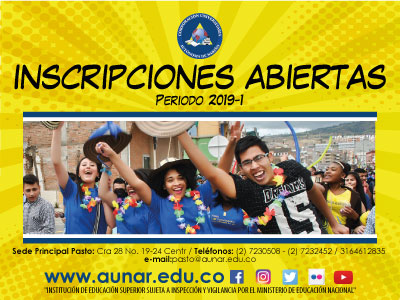
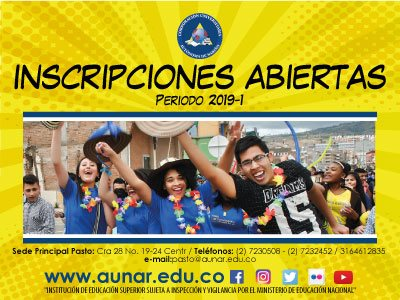
Cambio de imagen svg a png footer

diff --git a/css/personalizado.css b/css/personalizado.css
@@ -272,6 +272,7 @@ font-weight: bold;
     border-left: 2rem solid transparent;
     border-right: 0px solid yellow;
     border-bottom: 2.5rem solid #E3E3E3;
+    /* border-bottom: 2.5rem solid #F4D460; */
     z-index: 1030;
 }
 

diff --git a/secciones/footer-principal.php b/secciones/footer-principal.php
@@ -146,7 +146,7 @@
       <div class="col-lg-6 col-sm-12 mt-3  text-light d-flex justify-content-center align-items-center justify-content-lg-end ">
         
         <div class="col-12 col-md-6 col-sm-6">
-          <img class="img-fluid" src="img/aunar-logo-antiguo.svg" alt="Logo AUNAR Autónoma de Nariño">
+          <img class="img-fluid" width="100%" src="img/aunar-logo-antiguo.png" alt="Logo AUNAR Autónoma de Nariño">
         </div>
         
       </div>
